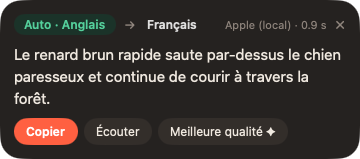
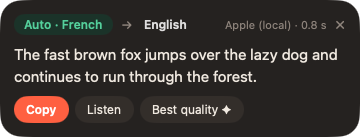
content(mparle): address review
English screenshots published under docs/ in the mPARLE repository, releases/latest download link, macos/arch/notarized fields, text-selection and services tags instead of apple-silicon, verified date updated.

diff --git a/content/apps/mparle/index.md b/content/apps/mparle/index.md
@@ -2,20 +2,23 @@
 name: "mPARLE"
 summary: "Menu bar translator for text selected in any Mac app, with one shortcut and Apple on-device translation by default."
 category: "Productivity"
-tags: ["translation", "menu-bar", "shortcut", "offline", "apple-silicon"]
+tags: ["translation", "menu-bar", "shortcut", "offline", "text-selection", "services"]
 repository: "https://github.com/starbudweiser/mPARLE"
 website: "https://github.com/starbudweiser/mPARLE"
 license: "MIT"
 licenseUrl: "https://github.com/starbudweiser/mPARLE/blob/main/LICENSE"
-download: "https://github.com/starbudweiser/mPARLE/releases"
+download: "https://github.com/starbudweiser/mPARLE/releases/latest"
+macos: "26"
+arch: apple-silicon
+notarized: true
 freeDownload: true
 featured: false
 added: "2026-11-17"
-verified: "2026-11-17"
-sources: ["https://github.com/starbudweiser/mPARLE", "https://github.com/starbudweiser/mPARLE/blob/main/LICENSE", "https://github.com/starbudweiser/mPARLE/releases/tag/v1.0.0", "https://github.com/starbudweiser/mPARLE/blob/main/README.md"]
+verified: "2026-11-18"
+sources: ["https://github.com/starbudweiser/mPARLE", "https://github.com/starbudweiser/mPARLE/blob/main/LICENSE", "https://github.com/starbudweiser/mPARLE/releases/tag/v1.0.1", "https://github.com/starbudweiser/mPARLE/blob/main/README.md"]
 icon: "./assets/icon.png"
-screenshots: [{"src": "./assets/screenshot-bubble.png", "alt": "mPARLE translation bubble showing an English sentence translated into French, with Copy, Listen and Better quality buttons.", "source": "https://github.com/starbudweiser/mPARLE/blob/main/screenshots/bubble.png", "credit": "mPARLE authors"}, {"src": "./assets/screenshot-quick-input.png", "alt": "mPARLE quick input window with the source text on the left and the French translation on the right.", "source": "https://github.com/starbudweiser/mPARLE/blob/main/screenshots/quick-input.png", "credit": "mPARLE authors"}, {"src": "./assets/screenshot-settings.png", "alt": "mPARLE settings window with target language, engines, shortcuts and replace-in-place options.", "source": "https://github.com/starbudweiser/mPARLE/blob/main/screenshots/settings.png", "credit": "mPARLE authors"}]
-assets: [{"path": "./assets/icon.png", "source": "https://github.com/starbudweiser/mPARLE/blob/main/assets/mPARLE_1024.png", "credit": "mPARLE authors", "license": "MIT (mPARLE repository)"}, {"path": "./assets/screenshot-bubble.png", "source": "https://github.com/starbudweiser/mPARLE/blob/main/screenshots/bubble.png", "credit": "mPARLE authors", "license": "MIT (mPARLE repository)"}, {"path": "./assets/screenshot-quick-input.png", "source": "https://github.com/starbudweiser/mPARLE/blob/main/screenshots/quick-input.png", "credit": "mPARLE authors", "license": "MIT (mPARLE repository)"}, {"path": "./assets/screenshot-settings.png", "source": "https://github.com/starbudweiser/mPARLE/blob/main/screenshots/settings.png", "credit": "mPARLE authors", "license": "MIT (mPARLE repository)"}]
+screenshots: [{"src": "./assets/screenshot-bubble.png", "alt": "The mPARLE bubble next to the cursor, translating a French sentence into English with Apple's local engine, with Copy, Listen and Best quality buttons.", "source": "https://github.com/starbudweiser/mPARLE/blob/main/docs/bubble.png", "credit": "mPARLE authors"}, {"src": "./assets/screenshot-quick-input.png", "alt": "The mPARLE Quick input window with a Spanish question on the left and its English translation on the right.", "source": "https://github.com/starbudweiser/mPARLE/blob/main/docs/quick-input.png", "credit": "mPARLE authors"}, {"src": "./assets/screenshot-settings.png", "alt": "The mPARLE settings: target and alternate languages, engines, DeepL key, shortcuts, replace in place and history.", "source": "https://github.com/starbudweiser/mPARLE/blob/main/docs/settings.png", "credit": "mPARLE authors"}]
+assets: [{"path": "./assets/icon.png", "source": "https://github.com/starbudweiser/mPARLE/blob/main/assets/mPARLE_1024.png", "credit": "mPARLE authors", "license": "MIT (mPARLE repository)"}, {"path": "./assets/screenshot-bubble.png", "source": "https://github.com/starbudweiser/mPARLE/blob/main/docs/bubble.png", "credit": "mPARLE authors", "license": "MIT (mPARLE repository)"}, {"path": "./assets/screenshot-quick-input.png", "source": "https://github.com/starbudweiser/mPARLE/blob/main/docs/quick-input.png", "credit": "mPARLE authors", "license": "MIT (mPARLE repository)"}, {"path": "./assets/screenshot-settings.png", "source": "https://github.com/starbudweiser/mPARLE/blob/main/docs/settings.png", "credit": "mPARLE authors", "license": "MIT (mPARLE repository)"}]
 ---
 
 mPARLE translates whatever text you have selected, in any app, without switching windows. Select a sentence, press Option-T, and a small bubble appears next to the cursor with the translation, the detected source language and the engine used. From the bubble you can copy the result, listen to it, or replace the selected text in place when the field is editable.
